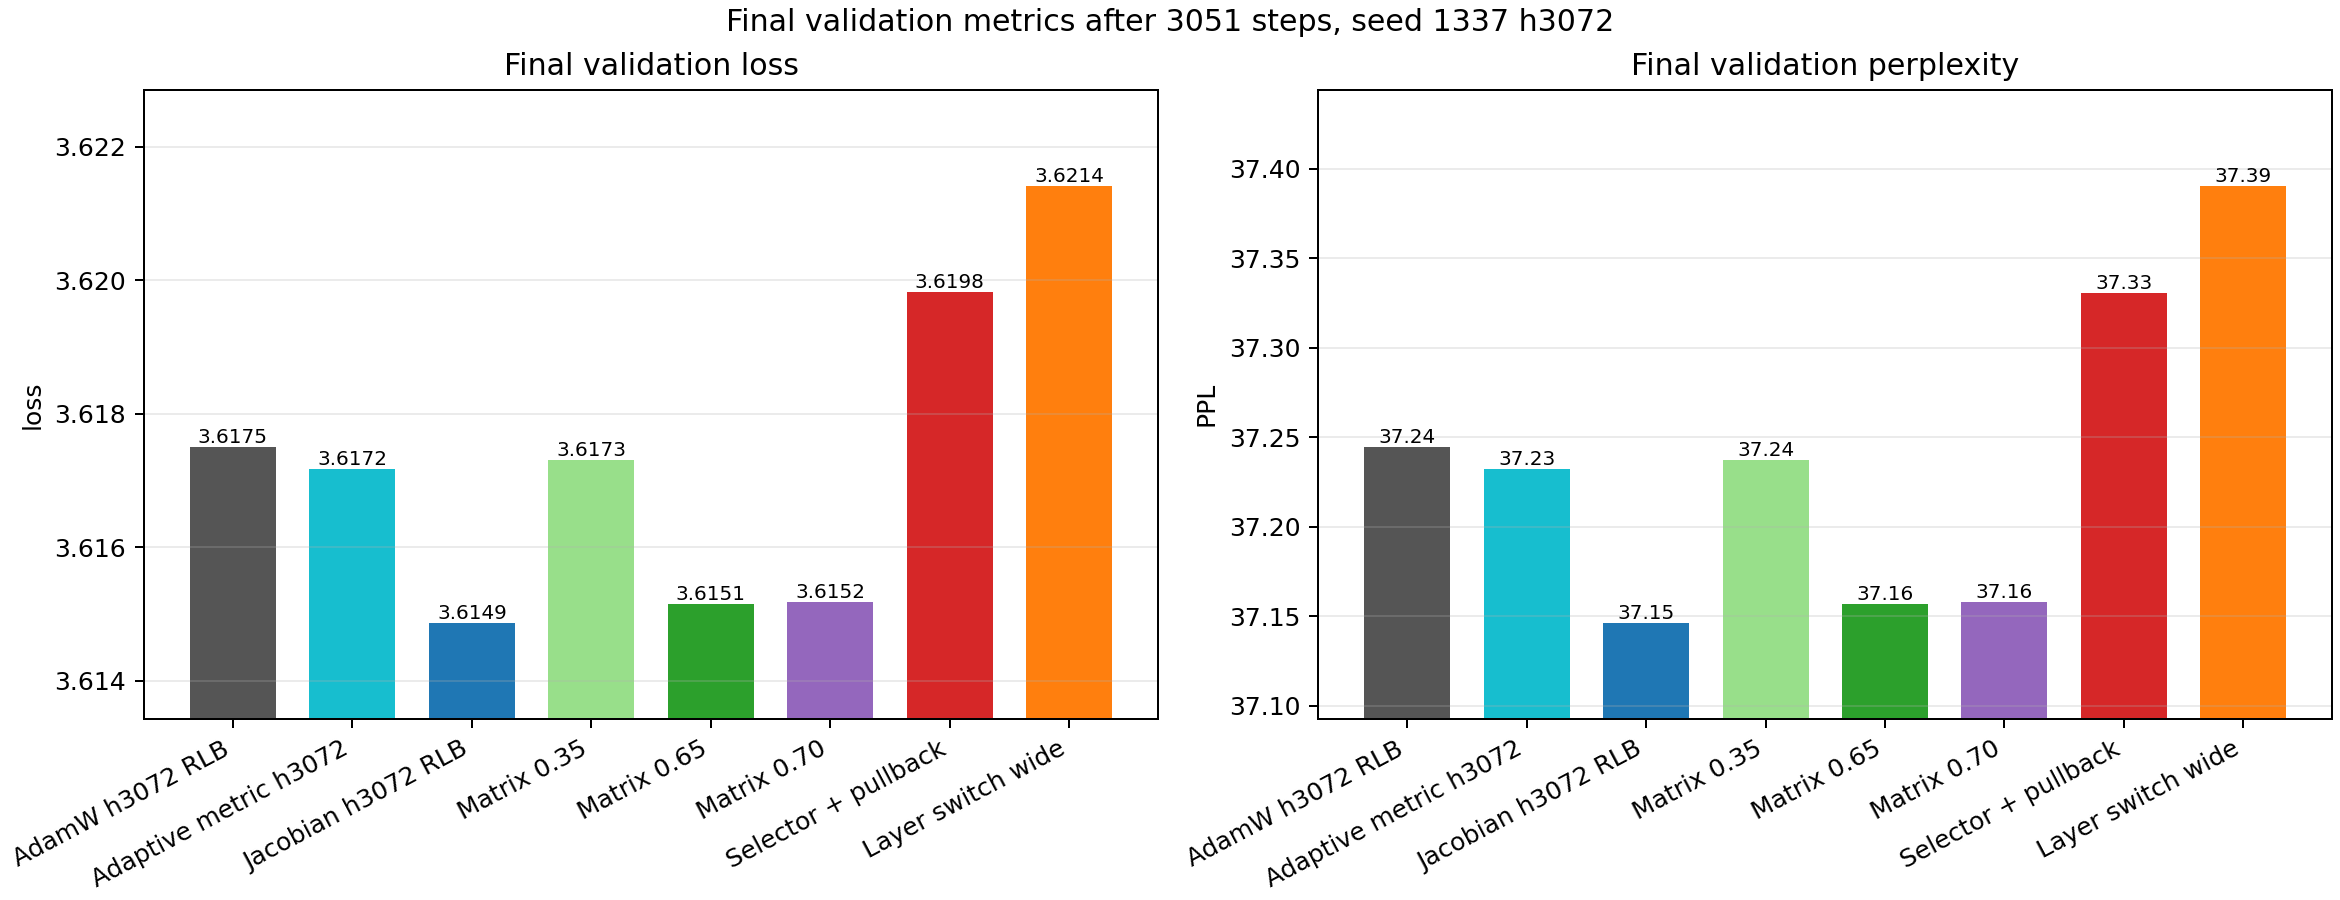
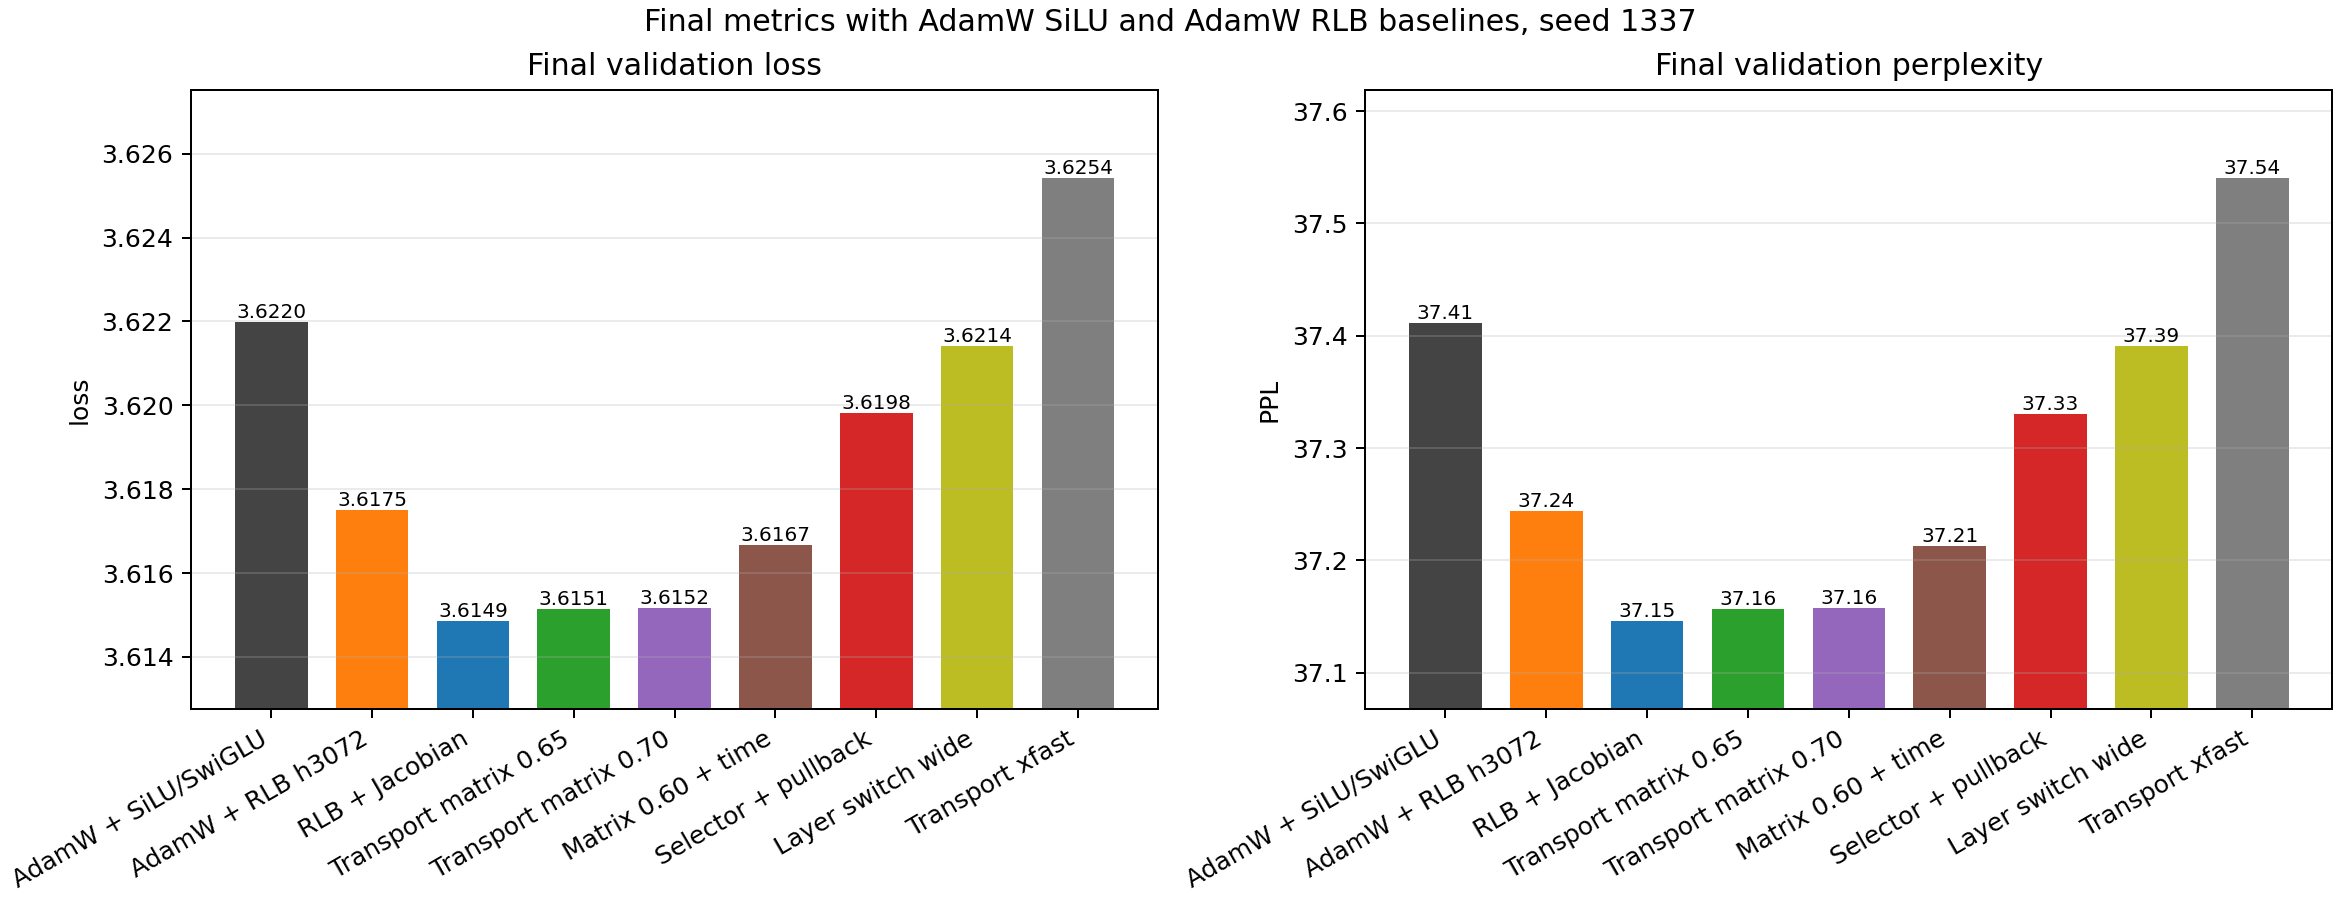
Clarify optimizer baselines in analysis

diff --git a/README.md b/README.md
@@ -111,44 +111,45 @@ rational_transport_onpolicy h3072 matrix=0.65       3.615149  PPL 37.157
 rational_transport_onpolicy h3072 matrix=0.70       3.615180  PPL 37.158
 ```
 
-The seed-1337 incumbents are `3.614862` for `rational_jacobian_onpolicy + h3072` and `3.614475` for `rational_quotient_onpolicy + h2880`. The new probes beat AdamW/SILU on that seed, but they did not beat the existing rational-specific rows, so the full three-seed recommendation remains unchanged. Transport experiments showed that aggressive rational coefficient schedules improve some early checkpoints but create a late penalty; selector cooldown and coefficient pullback reduced but did not remove that penalty. The safest transport setting found is matrix-only transport with baseline coefficient dynamics.
+The seed-1337 external baseline is `AdamW + SiLU/SwiGLU` at `3.621982` loss and `37.412` PPL. The activation-controlled baseline is `AdamW + RLB h3072` at `3.617501` loss and `37.244` PPL. Jacobian is not the baseline; it is the current best rational-specific optimizer row. On seed 1337 it reaches `3.614862`, which is `-0.007120` loss versus SiLU+AdamW and `-0.002639` versus RLB+AdamW. The full three-seed recommendation remains unchanged because the new transport probes did not increase that headline gap.
 
 ### Transport Probe Analysis
 
 The compact analysis artifacts are in `experiments/results/transport_optimizer_analysis_2026_05_27/`:
 
 ```text
-loss_ppl_curves.png          validation loss and PPL curves
+loss_ppl_curves.png          optimizer comparison validation loss/PPL curves; x-axis starts at step 1
 final_loss_ppl_bars.png      final validation loss and PPL bars
-transport_probe_summary.csv  retained probe metrics
+transport_probe_summary.csv  retained probe metrics with SiLU/RLB baseline deltas
 ```
 
-![Seed-1337 h3072 validation curves](experiments/results/transport_optimizer_analysis_2026_05_27/loss_ppl_curves.png)
+![Seed-1337 optimizer comparison curves](experiments/results/transport_optimizer_analysis_2026_05_27/loss_ppl_curves.png)
 
-![Seed-1337 h3072 final metrics](experiments/results/transport_optimizer_analysis_2026_05_27/final_loss_ppl_bars.png)
+![Seed-1337 final metrics](experiments/results/transport_optimizer_analysis_2026_05_27/final_loss_ppl_bars.png)
 
-Same seed, same h3072 RLB setting:
+Seed-1337 comparison. Negative gaps are better than the named baseline:
 
-| row | final loss | final PPL | gap vs Jacobian |
-| --- | ---: | ---: | ---: |
-| `rational_jacobian_onpolicy` | 3.614862 | 37.146 | +0.000000 |
-| `rational_transport_onpolicy`, matrix `0.65`, baseline coeffs | 3.615149 | 37.157 | +0.000287 |
-| `rational_transport_onpolicy`, matrix `0.70`, baseline coeffs | 3.615180 | 37.158 | +0.000318 |
-| `rational_transport_onpolicy`, matrix-only early probe | 3.615939 | 37.186 | +0.001077 |
-| `rational_transport_onpolicy`, matrix `0.60` plus time ramp | 3.616660 | 37.213 | +0.001798 |
-| `rational_adaptive_metric_onpolicy` | 3.617174 | 37.232 | +0.002312 |
-| AdamW on h3072 RLB | 3.617501 | 37.244 | +0.002639 |
-| layer-staggered coefficient switch, pre-fix run | 3.619816 | 37.331 | +0.004954 |
-| selector plus coefficient pullback | 3.619819 | 37.331 | +0.004957 |
-| global switch at 43% progress | 3.620000 | 37.338 | +0.005138 |
-| depth-corrected layer switch | 3.621418 | 37.391 | +0.006556 |
-| aggressive xfast coefficient schedule | 3.625419 | 37.540 | +0.010557 |
+| row | final loss | final PPL | gap vs SiLU+AdamW | gap vs RLB+AdamW |
+| --- | ---: | ---: | ---: | ---: |
+| AdamW + SiLU/SwiGLU | 3.621982 | 37.412 | +0.000000 | +0.004480 |
+| AdamW + RLB h3072 | 3.617501 | 37.244 | -0.004480 | +0.000000 |
+| RLB h3072 + `rational_jacobian_onpolicy` | 3.614862 | 37.146 | -0.007120 | -0.002639 |
+| RLB h3072 + transport matrix `0.65`, baseline coeffs | 3.615149 | 37.157 | -0.006833 | -0.002352 |
+| RLB h3072 + transport matrix `0.70`, baseline coeffs | 3.615180 | 37.158 | -0.006802 | -0.002321 |
+| RLB h3072 + transport matrix-only early probe | 3.615939 | 37.186 | -0.006042 | -0.001562 |
+| RLB h3072 + transport matrix `0.60` plus time ramp | 3.616660 | 37.213 | -0.005322 | -0.000841 |
+| RLB h3072 + `rational_adaptive_metric_onpolicy` | 3.617174 | 37.232 | -0.004807 | -0.000327 |
+| RLB h3072 + selector plus coefficient pullback | 3.619819 | 37.331 | -0.002162 | +0.002318 |
+| RLB h3072 + depth-corrected layer switch | 3.621418 | 37.391 | -0.000564 | +0.003917 |
+| RLB h3072 + aggressive xfast coefficient schedule | 3.625419 | 37.540 | +0.003438 | +0.007918 |
 
-The main positive result is narrow but real: RLB-aware matrix geometry is consistently useful. The best transport rows kept the rational coefficients on the conservative baseline path and only changed how the matrices see the learned rational curves. Raising the matrix preconditioner from the first matrix-only attempt to `0.65` closed most of the gap to the incumbent Jacobian optimizer, and `0.70` was essentially tied but slightly worse. A time ramp on the same mechanism was worse, which suggests the useful part is stable curve-aware scaling, not late extra pressure.
+The important decomposition is: non-GLU RLB itself beats SiLU+AdamW by `-0.004480` on this seed, and the current best rational optimizer adds another `-0.002639` beyond RLB+AdamW. That is useful, but it is not yet the much larger gap we want against the real baseline, `AdamW + SiLU/SwiGLU`.
 
-The main negative result is also consistent: aggressive coefficient motion is the wrong place to spend risk in this benchmark. The coefficient selector, layer-specific switches, reset-on-switch, freezes, and late pullback were all trying to avoid the late-penalty pattern, but they still landed well behind the matrix-only transport rows. The likely reason is that rational coefficients are small function parameters, not ordinary dense weights. Early large moves can change the learned scalar nonlinearity enough that later cooldown only stops further damage; it does not restore the better function-space basin.
+The main positive transport result is narrow: RLB-aware matrix geometry is consistently useful. The best transport rows kept the rational coefficients on the conservative baseline path and only changed how the matrices see the learned rational curves. A time ramp was worse, which suggests the useful part is stable curve-aware scaling, not late extra pressure.
 
-The next optimizer design should therefore make selection reversible and acceptance-based instead of only scheduled. A stronger rational-specific optimizer should treat matrix preconditioning and gauge balancing as the default path, then allow coefficient proposals only when a local function-space test accepts them: bound the change on the probe grid, compare a short on-policy loss proxy against a frozen-coefficient shadow update, and roll back or decay the proposal when it loses. Layer-specific behavior is still worth using, but it should choose among validated conservative actions rather than switching into aggressive coefficient modes because a schedule says the phase changed.
+The main negative result is stronger: aggressive coefficient motion is the wrong place to spend risk in this benchmark. The coefficient selector, layer-specific switches, reset-on-switch, freezes, and late pullback were all trying to avoid the late-penalty pattern, but they still landed behind the matrix-only transport rows and often gave back most of the SiLU+AdamW gap. The likely reason is that rational coefficients are small function parameters, not ordinary dense weights. Early large moves can change the learned scalar nonlinearity enough that later cooldown only stops further damage; it does not restore the better function-space basin.
+
+The next optimizer design should therefore target a larger gap to SiLU+AdamW directly. Matrix preconditioning and gauge balancing should be the default path; coefficient moves should become reversible, function-space-bounded proposals accepted only when a local on-policy test says they help. Layer-specific behavior is still worth using, but it should choose among validated conservative actions rather than switching into aggressive coefficient modes because a schedule says the phase changed.
 
 ## Layout
 

diff --git a/experiments/results/transport_optimizer_analysis_2026_05_27/README.md b/experiments/results/transport_optimizer_analysis_2026_05_27/README.md
@@ -1,32 +1,27 @@
 # Transport optimizer analysis, 2026-05-27
 
-These figures summarize the on-policy rational optimizer probes against the seed-1337 h3072 RLB incumbent. Historical h2880 and SiLU entries are retained in the CSV for context, but the figures and focus table compare the same h3072 RLB setting. Raw transport run directories were cleaned after this compact ledger was generated.
+This analysis includes `AdamW + SiLU/SwiGLU` as the external baseline and `AdamW + RLB h3072` as the activation-controlled baseline. Jacobian is not the baseline; it is the current best rational-specific row. Raw transport run directories were cleaned after this compact ledger was generated.
 
-![Validation loss and PPL curves](loss_ppl_curves.png)
+![Optimizer comparison loss and PPL curves](loss_ppl_curves.png)
 
 ![Final validation bars](final_loss_ppl_bars.png)
 
-## h3072 RLB complete runs
+## Seed-1337 Primary Comparisons
 
-| rank | label | final loss | final PPL | delta vs Jacobian h3072 | category |
-| ---: | --- | ---: | ---: | ---: | --- |
-| 1 | Jacobian h3072 RLB | 3.614862 | 37.146 | +0.000000 | best incumbent |
-| 2 | Transport matrix 0.65 | 3.615149 | 37.157 | +0.000287 | matrix only |
-| 3 | Transport matrix 0.70 | 3.615180 | 37.158 | +0.000318 | matrix only |
-| 4 | Transport matrix-only | 3.615939 | 37.186 | +0.001077 | matrix only |
-| 5 | Matrix 0.60 + time | 3.616660 | 37.213 | +0.001798 | matrix/time ramp |
-| 6 | Adaptive metric h3072 RLB | 3.617174 | 37.232 | +0.002312 | matrix/metric |
-| 7 | Matrix 0.35 | 3.617309 | 37.237 | +0.002447 | matrix only |
-| 8 | AdamW h3072 RLB | 3.617501 | 37.244 | +0.002639 | baseline |
-| 9 | Layer stagger wide pre-fix | 3.619816 | 37.331 | +0.004954 | layer schedule |
-| 10 | Selector + pullback | 3.619819 | 37.331 | +0.004957 | selector/pullback |
-| 11 | Switch no-stagger 0.43 | 3.620000 | 37.338 | +0.005138 | switching |
-| 12 | Late depth smooth | 3.620323 | 37.350 | +0.005461 | layer schedule |
-| 13 | Switch no-stagger 0.39 | 3.620544 | 37.358 | +0.005682 | switching |
-| 14 | Moderate pullback | 3.620605 | 37.360 | +0.005743 | pullback |
-| 15 | Low gain after switch | 3.620783 | 37.367 | +0.005921 | switching |
-| 16 | Reset on switch | 3.621302 | 37.386 | +0.006440 | switching |
-| 17 | Freeze after switch | 3.621391 | 37.390 | +0.006529 | switching |
-| 18 | Transport scheduled | 3.621399 | 37.390 | +0.006537 | scheduled coeff |
+Negative deltas are better than the named baseline.
+
+| row | final loss | final PPL | delta vs SiLU AdamW | delta vs RLB AdamW | category |
+| --- | ---: | ---: | ---: | ---: | --- |
+| AdamW + SiLU/SwiGLU | 3.621982 | 37.412 | +0.000000 | +0.004480 | primary baseline |
+| AdamW + RLB h3072 | 3.617501 | 37.244 | -0.004480 | +0.000000 | activation baseline |
+| RLB h3072 + rational_jacobian | 3.614862 | 37.146 | -0.007120 | -0.002639 | current best rational optimizer |
+| Transport matrix 0.65 | 3.615149 | 37.157 | -0.006833 | -0.002352 | matrix only |
+| Transport matrix 0.70 | 3.615180 | 37.158 | -0.006802 | -0.002321 | matrix only |
+| Matrix 0.60 + time | 3.616660 | 37.213 | -0.005322 | -0.000841 | matrix/time ramp |
+| Selector + pullback | 3.619819 | 37.331 | -0.002162 | +0.002318 | selector/pullback |
+| Layer switch wide | 3.621418 | 37.391 | -0.000564 | +0.003917 | layer schedule |
+| Transport xfast | 3.625419 | 37.540 | +0.003438 | +0.007918 | aggressive coeff |
+
+The three-seed headline comparison is still against `AdamW + SiLU/SwiGLU`: the best full row, `RLB h3072 + rational_jacobian_onpolicy`, improves mean loss by `-0.004736` versus that baseline and by `-0.001236` versus `AdamW + RLB h3072`. The transport probes did not increase that headline gap; they mostly show that matrix geometry is useful and aggressive coefficient motion is harmful.
 
 See `transport_probe_summary.csv` for all retained probe metrics, including h2880 comparison rows and incomplete/preempted probes.
